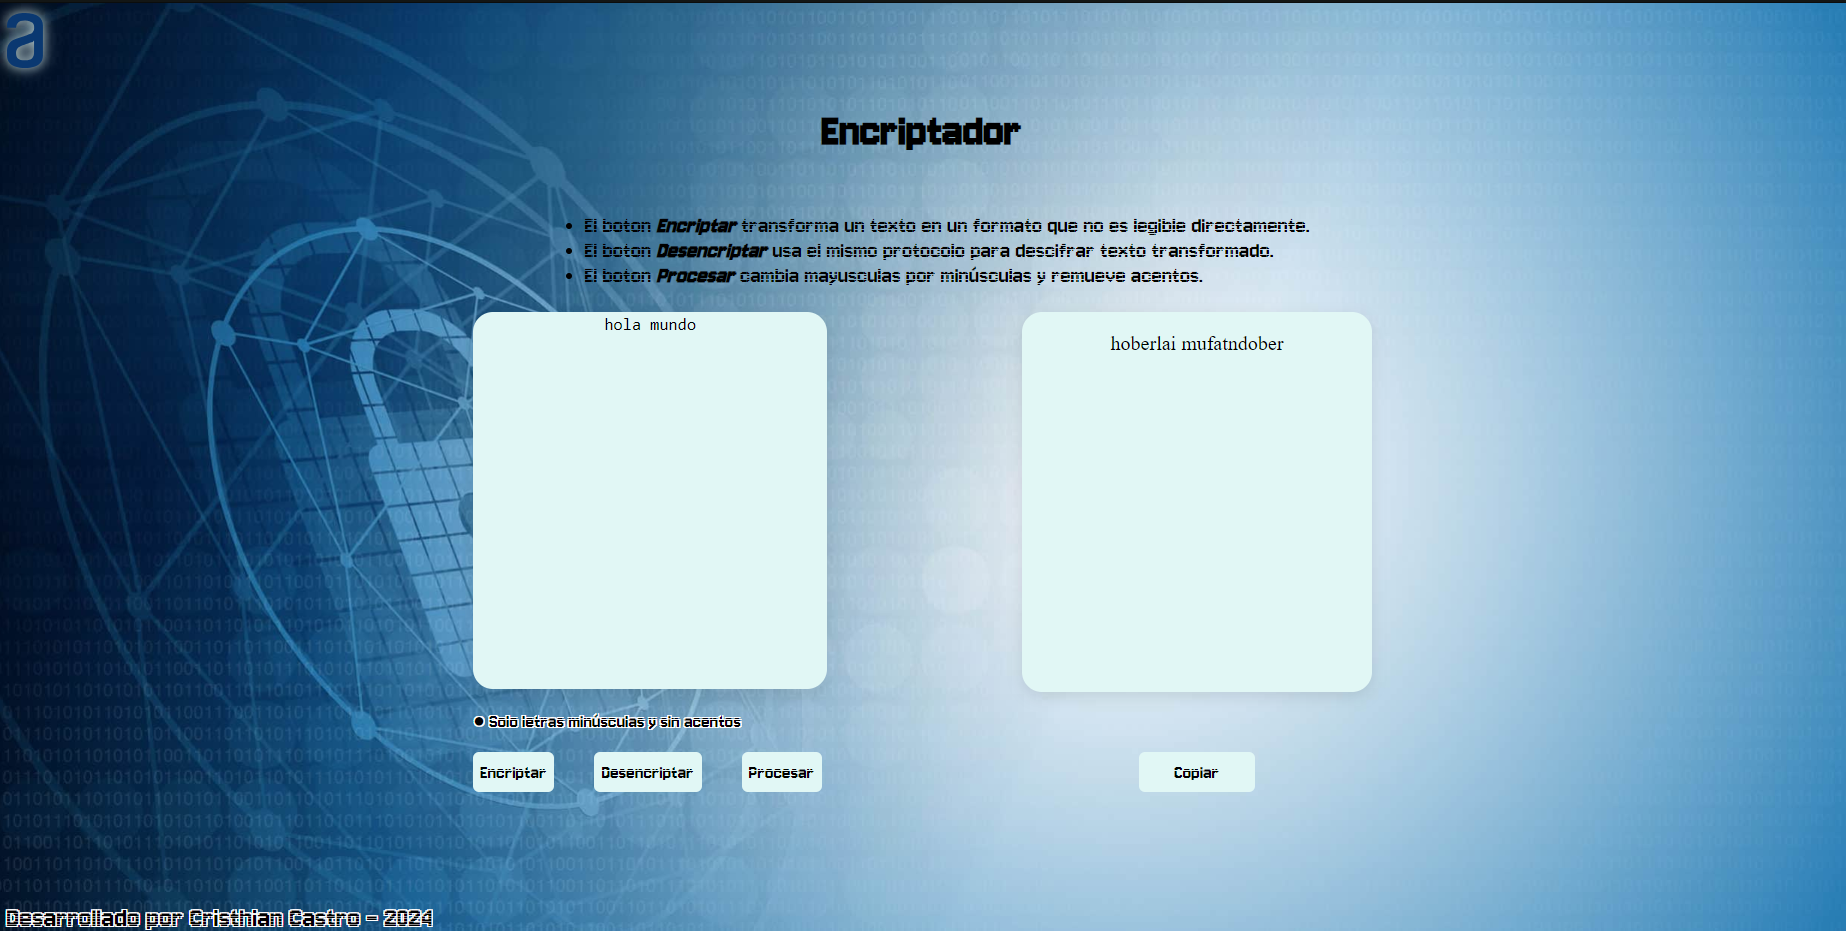
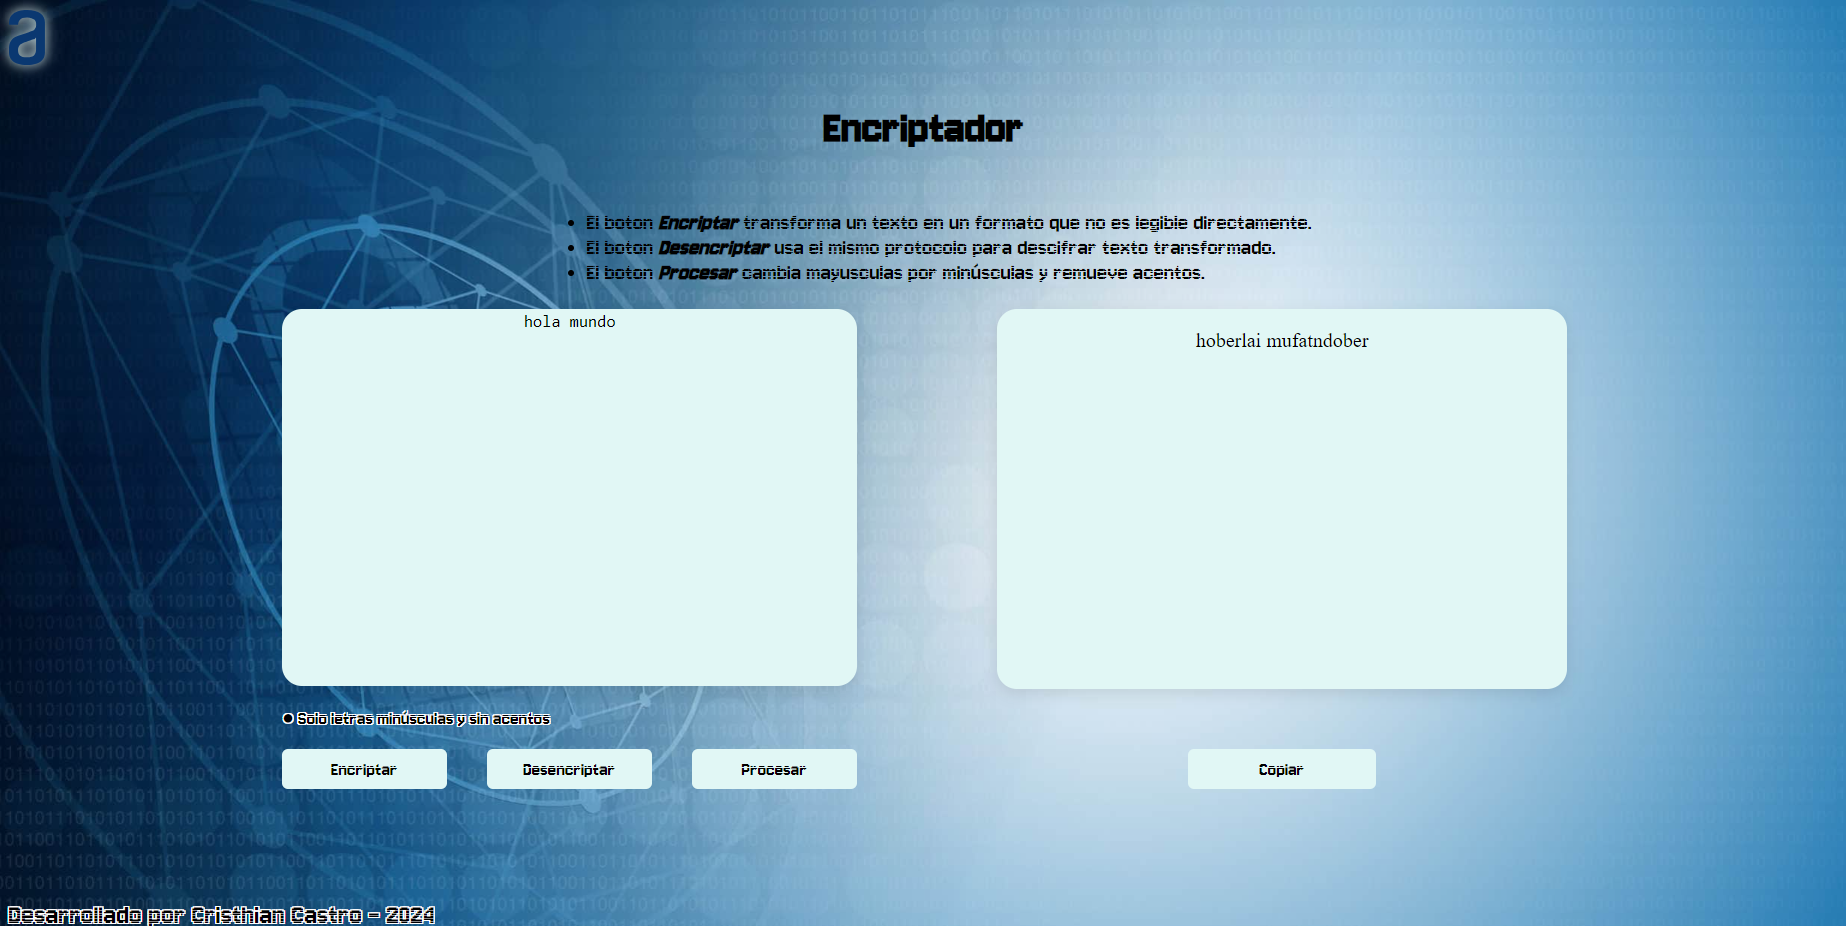
responsividad final

diff --git a/styles/style.css b/styles/style.css
@@ -34,7 +34,7 @@ body {
 .contenido{
     display: flex;
     justify-content: center;
-    gap: 10rem;
+    gap: 7rem;
     padding-bottom: 4rem
 }
 
@@ -62,7 +62,7 @@ body {
 }
 
 .contenido__input {
-    width: 100%;    
+    width: 28.5rem;    
     height: 100%; 
     box-shadow: 0px 4px 12px rgba(0, 0, 0, 0.1);  
     border: none;
@@ -89,8 +89,8 @@ body {
 
 .contenido__resultado {
     
-    max-width: 17.5rem;
-    min-width: 17.5rem;
+    max-width: 28.5rem;
+    min-width: 28.5rem;
     max-height: 19rem;
     min-height: 19rem;
 
@@ -131,10 +131,15 @@ body {
     1px -1px 0px white; /* Sombra a la derecha arriba */
 }
 
+
 @media (max-width: 768px) {
 
     body {
         background-size: contain; /* para que la imagen no se adapte al contenedor */
+    }
+
+    .informacion {
+        font-size: larger;   
     }
 
     .contenido {
@@ -145,8 +150,8 @@ body {
     }
 
     .contenido__input {
-        width: 100%;
-        height: 15rem;
+        width: 28.5rem;
+        height: 19rem;
         font-size: 1.2rem;
     }
 
@@ -168,4 +173,29 @@ body {
         font-size: 1.2rem;
     }
 
+    .footer{
+        font-size: 1rem;
+    }
+
+}
+
+@media (max-width: 375px){
+    .contenido__input {
+        width: 18.5rem;
+        height: 10rem;
+        font-size: 1.2rem;
+    }
+
+    .contenido__resultado {
+        max-width: 18.5rem;
+        min-width: 18.5rem;
+        max-height: 10rem;
+        min-height: 10rem;
+        margin-bottom: 1rem;
+    }
+
+    .contenido__resultado__titulo,
+    .contenido__resultado__info {
+        font-size: 1rem;
+    }
 }

diff --git a/app/app.js b/app/app.js
@@ -17,7 +17,7 @@ function condicionesIniciales(){
     asignarImagenElemento (".contenido__resultado__imagen", "./assets/decode.png");
 
     let imagen = document.querySelector(".contenido__resultado__imagen"); // cuando use Encriptar en el textarea vacia
-    imagen.style.width = "30%"; 
+    imagen.style.width = "20%"; 
     imagen.style.height = "30%";   
 }
 
